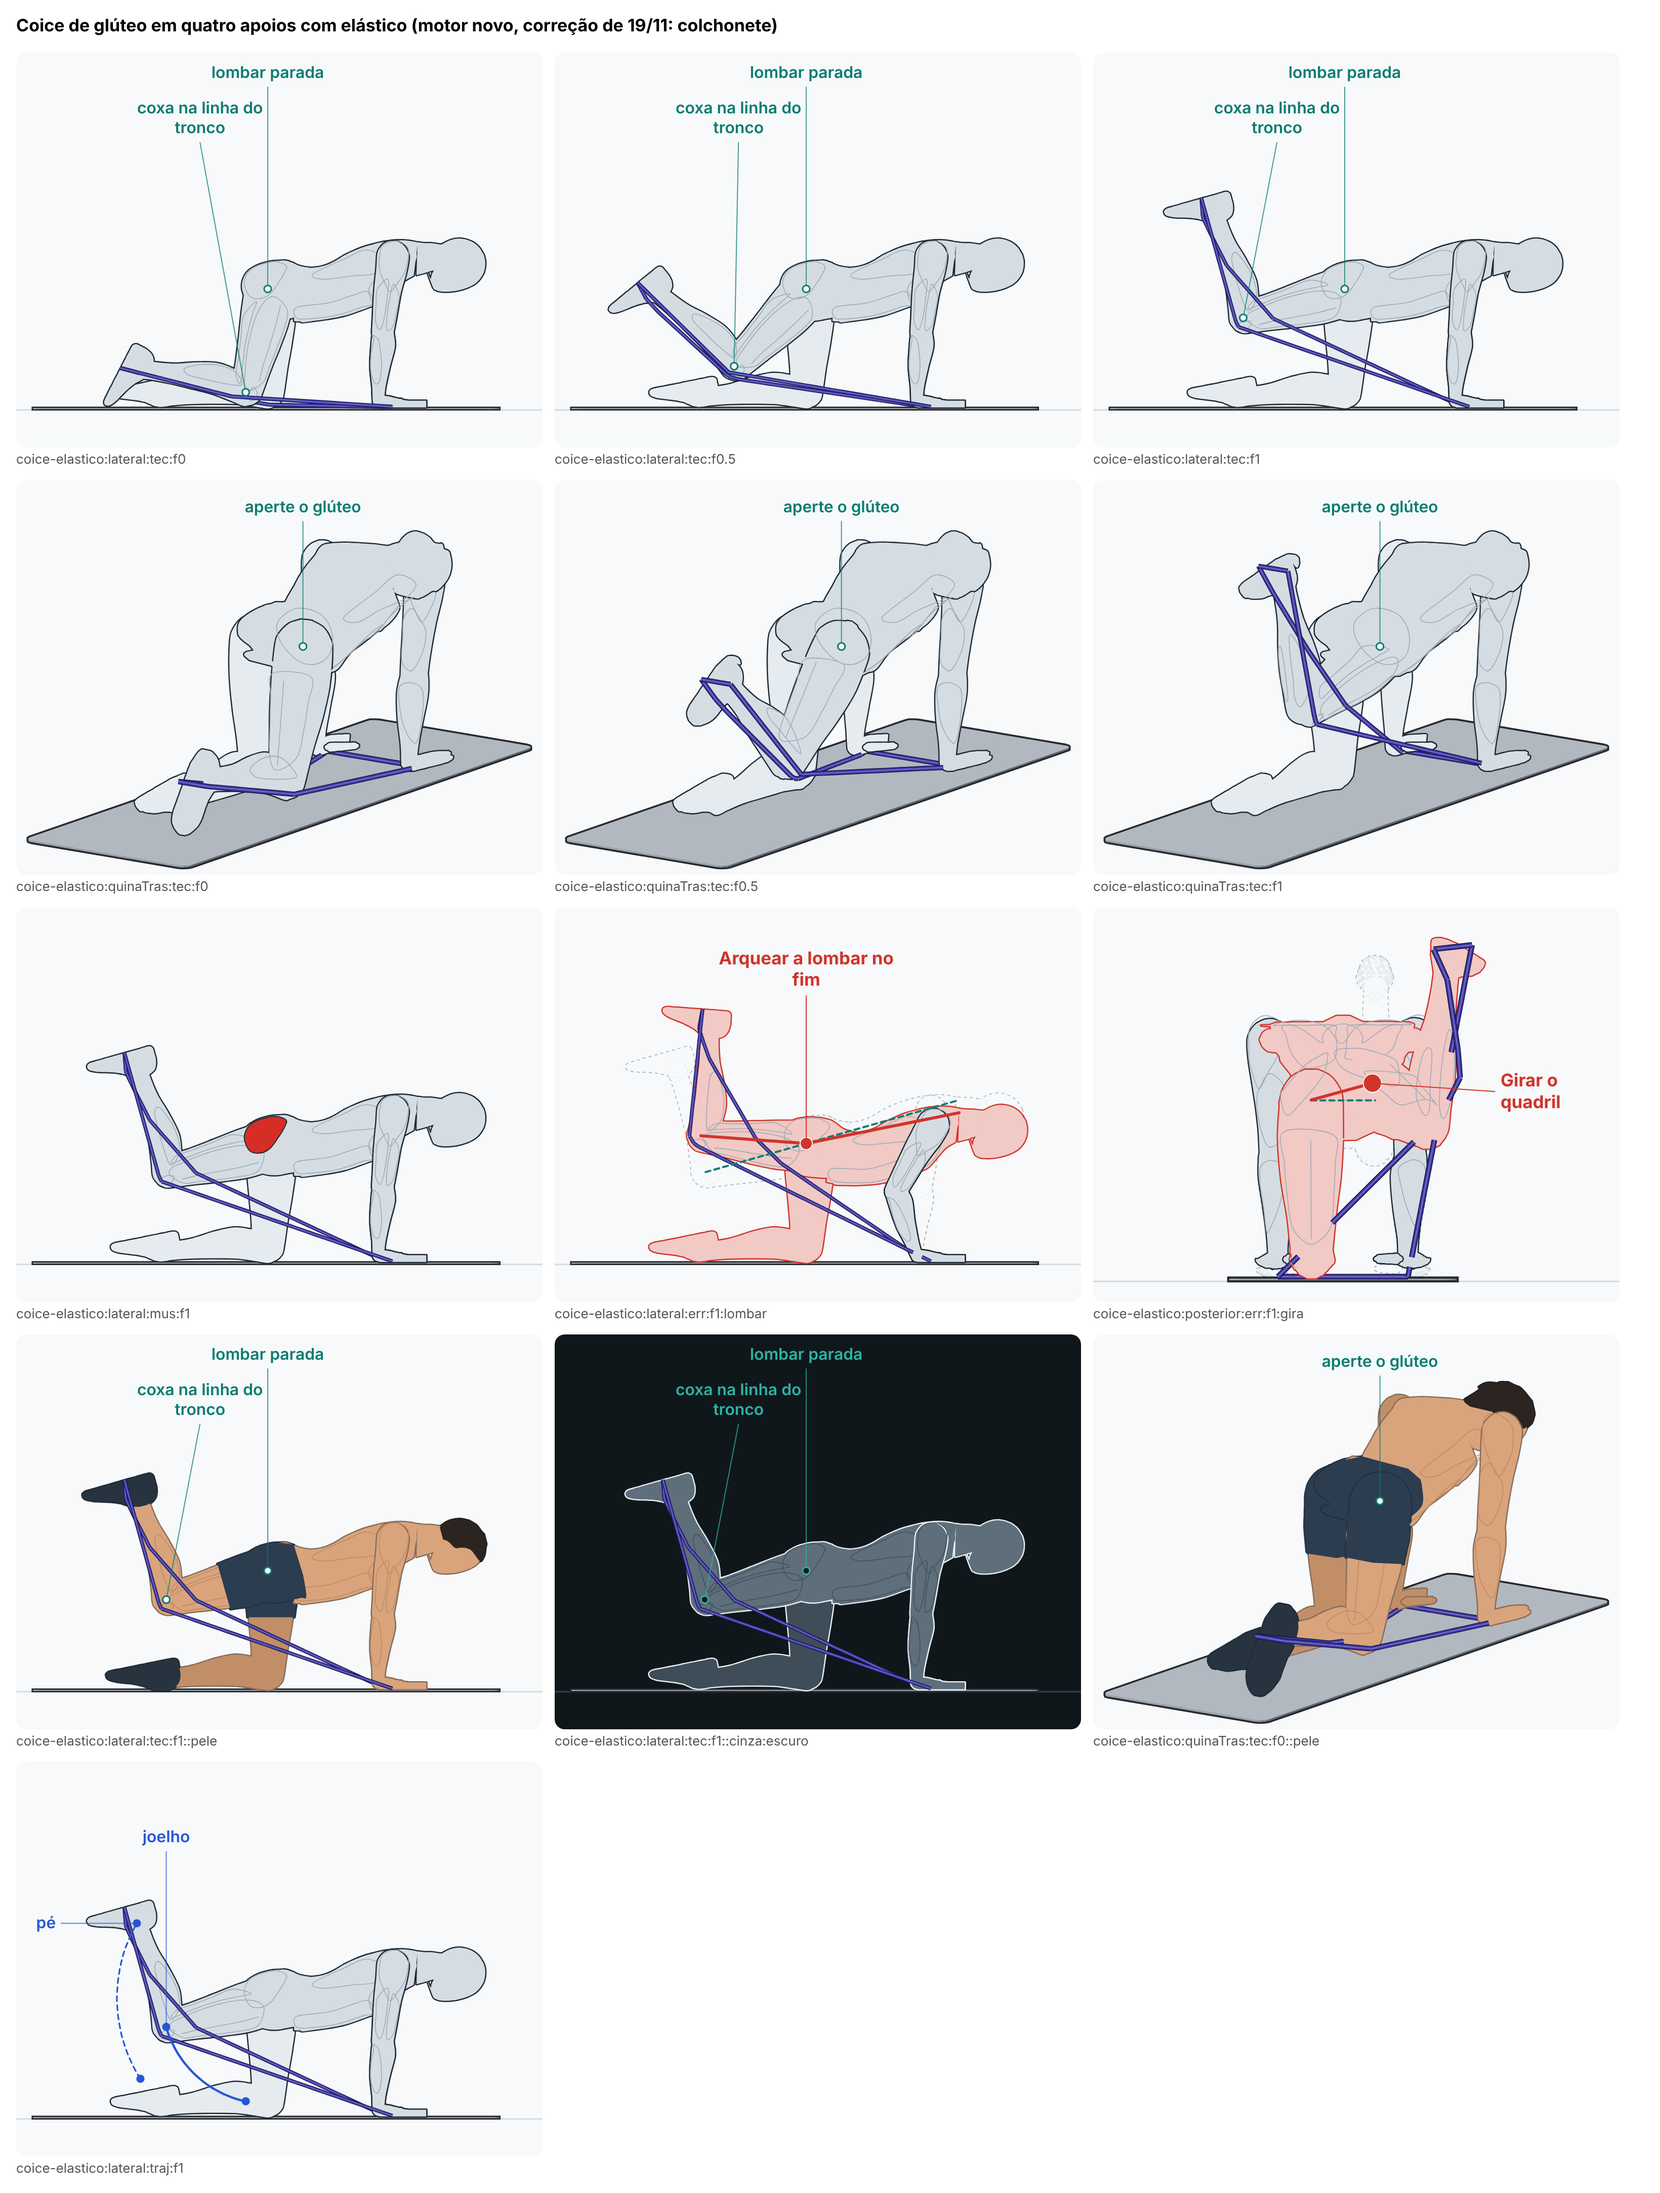
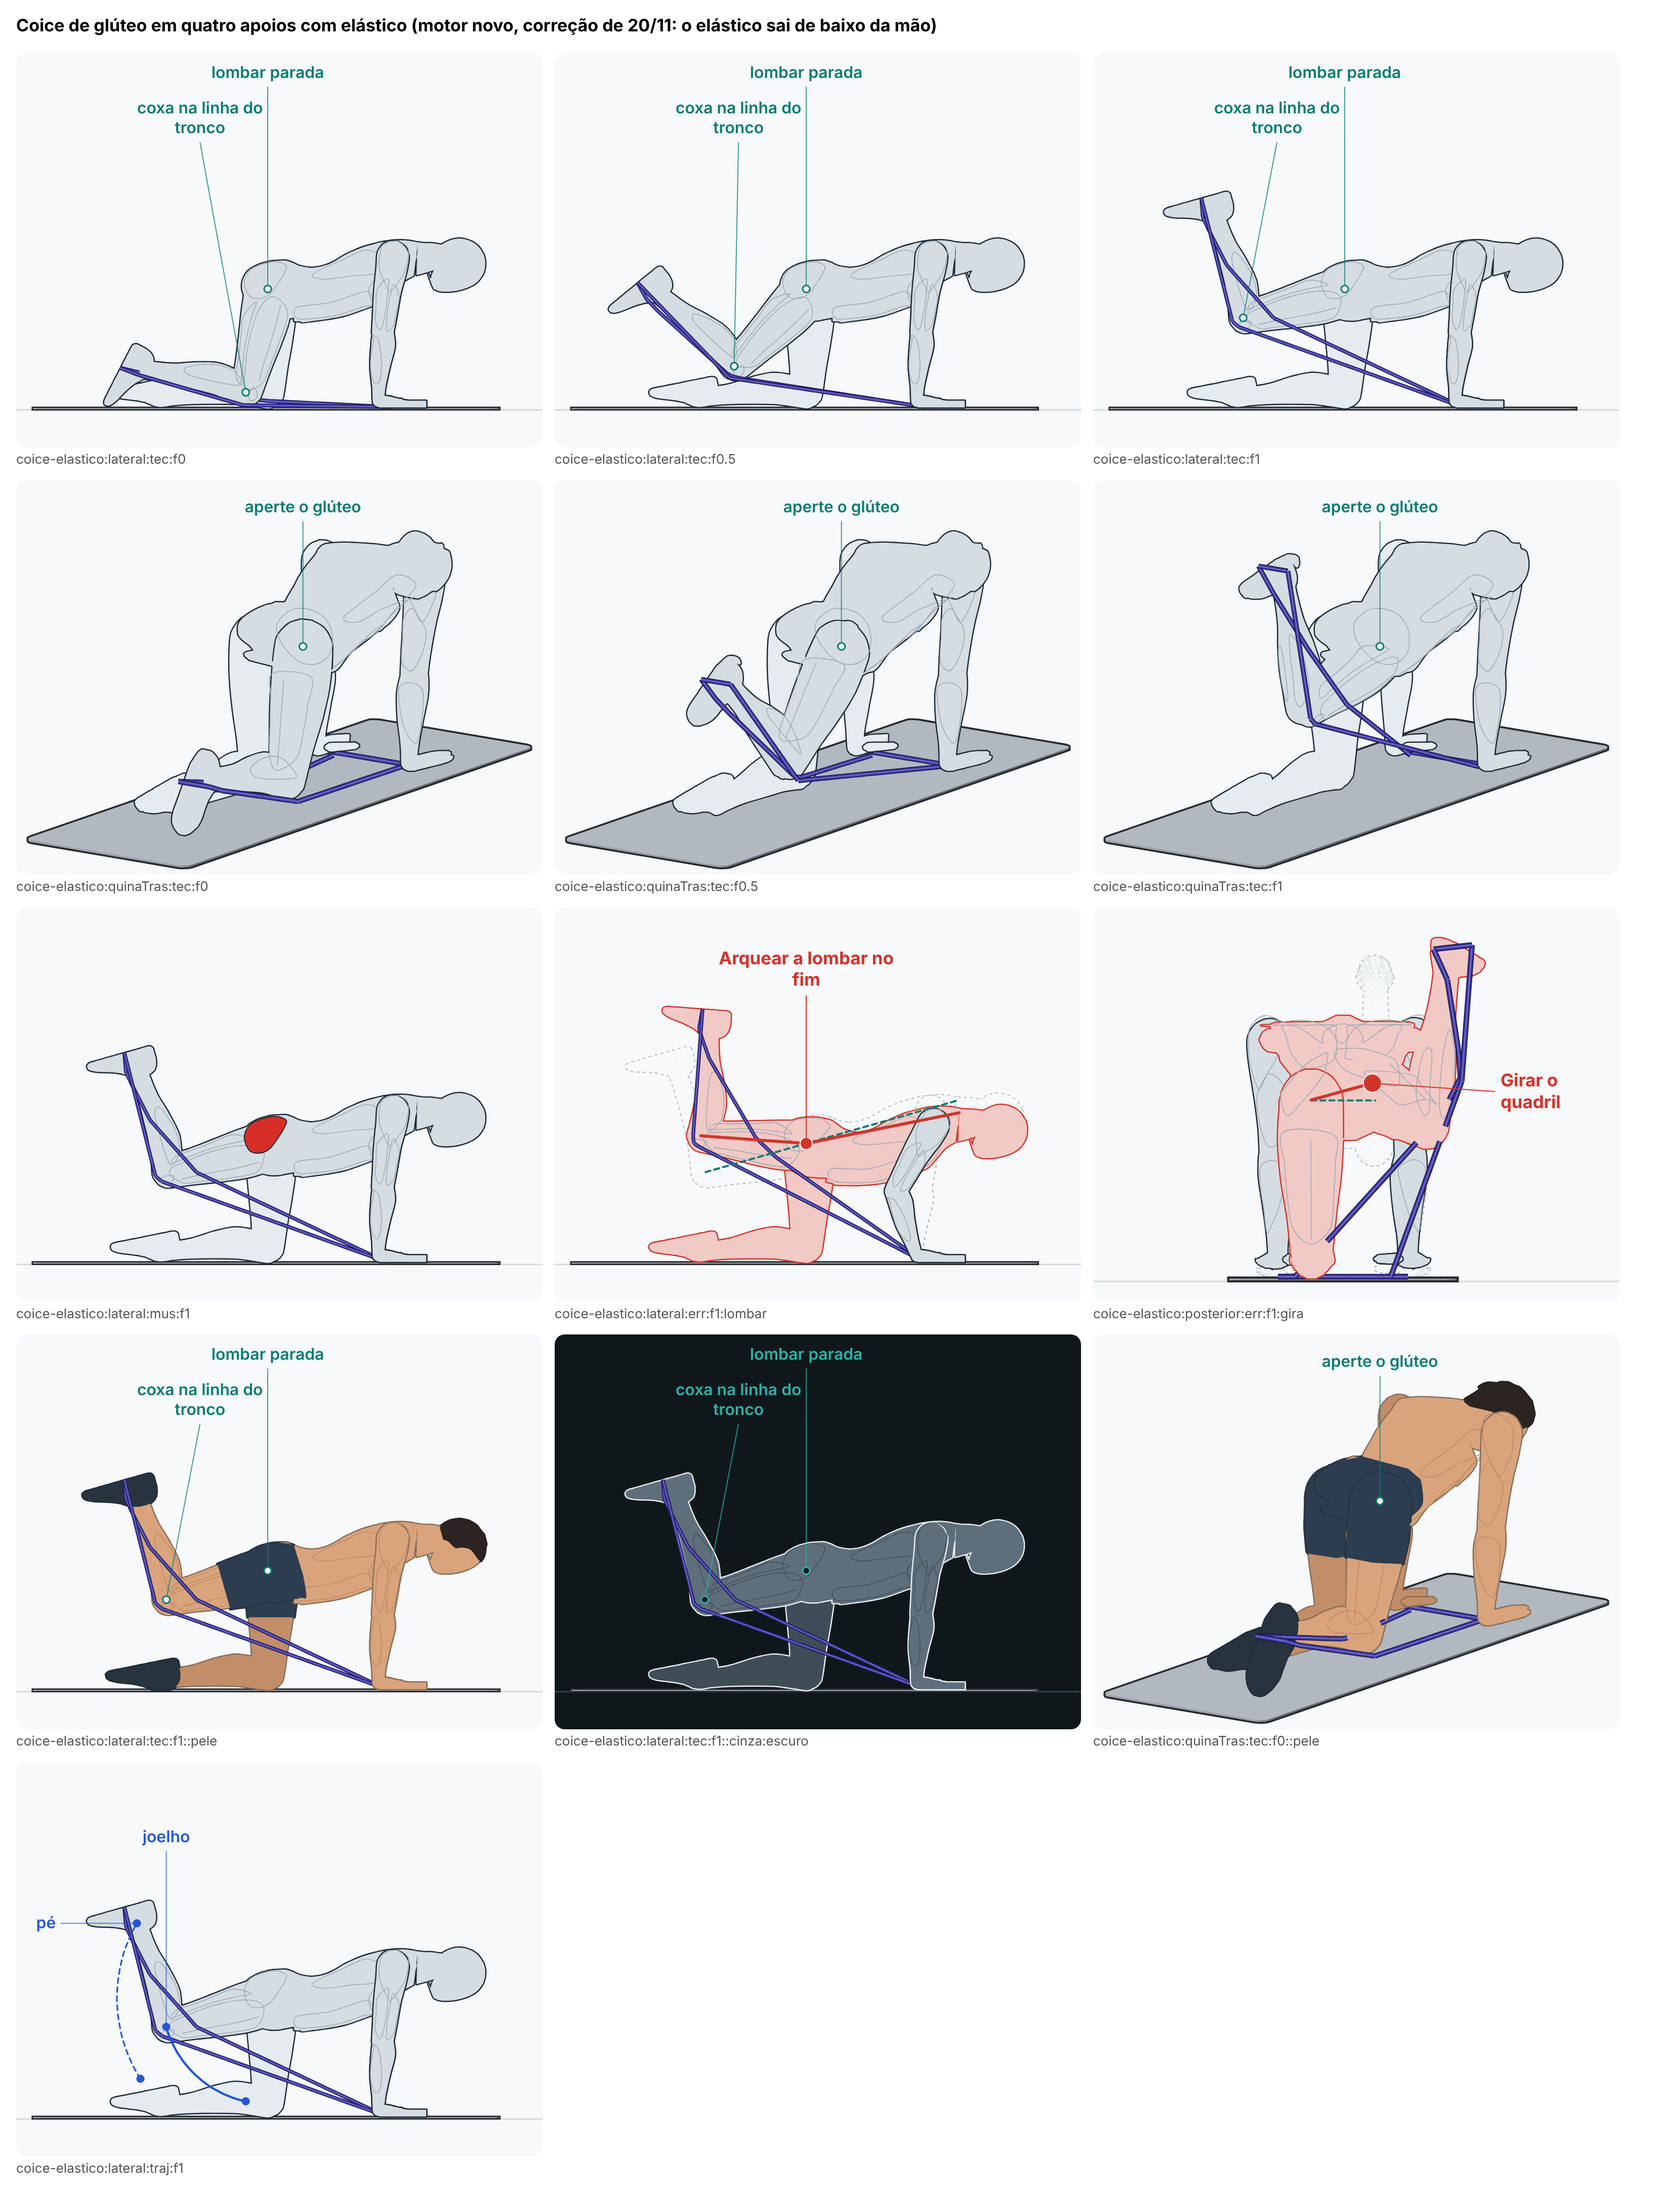
Tira o elástico de dentro do punho no coice com elástico
Cada trecho saía do centro da palma e subia rumo ao pé atravessando o
punho, que fica a 1 ou 2 cm do colchonete: 2,3 cm dentro do antebraço no
erro "Arquear a lombar no fim" (2,1 cm no movimento certo). Agora ele sai
de baixo da mão pela beira de dentro do calcanhar dela, rente ao
colchonete (elastico.saida.dentro 4,5 cm, elastico.saida.atras 3 cm), e
passa ao lado do punho. A pintura cai de 11 achados (61 cm²) para 10
(48 cm²), sem nenhum crescer em área.

A regra cabos-fora-do-corpo-nos-erros não foi ligada: a mão e o antebraço
passam, mas o trecho da mão esquerda ainda atravessa o pé perto da sola
(3,6 cm), como antes; a conferência escrita diz o que foi tentado.

Claude-Session: https://claude.ai/code/session_01YRzts8DBGbsca9onebcMt1

diff --git a/src/engine/novo/exercicios/coice-elastico.ts b/src/engine/novo/exercicios/coice-elastico.ts
@@ -84,10 +84,14 @@ function laco(corpo: Corpo, e: Esq): { pts: V3[]; comp: number; sola: V3 } {
     L0 = e.lado.L;
   const daPernaDeApoio = (p: V3) => Math.min(dist(p, L0.joelho), dist(p, L0.tornozelo), dist(p, L0.quadril) + 6) < Math.min(dist(p, R0.joelho), dist(p, R0.tornozelo), dist(p, R0.quadril) + 6);
   const op = { lado: [0, -1, 0] as V3, partes: PARTES, folga: f('elastico.folga'), fatia: 2.5, livreNasPontas: 3, aceita: (p: V3) => !daPernaDeApoio(p) };
-  const R = fioPorFora(e, palma('R'), bR, op);
+  // correção de 20/11/2026: cada trecho sai de baixo da mão pela beira de dentro do calcanhar dela, rente ao colchonete
+  // (`elastico.saida.*`). Saindo do meio da palma, o trecho subia rumo ao pé por dentro do punho (até 2,3 cm, no erro de
+  // arquear a lombar): o punho fica a 1 ou 2 cm do colchonete, e não há por onde o elástico passar embaixo dele
+  const saida = (k: Lado): V3 => add(palma(k), [-sinal(k) * f('elastico.saida.dentro'), 0, -f('elastico.saida.atras')]);
+  const R = [palma('R'), ...fioPorFora(e, saida('R'), bR, op)];
   // o trecho da mão esquerda cruza por baixo do corpo, entre as coxas: ele contorna também a coxa de apoio, pelo lado
   // de dentro dela (a virilha), em vez de atravessá-la
-  const L = fioPorFora(e, palma('L'), bL, { ...op, lado: norm([-f('elastico.paraDentro'), -1, 0]), aceita: undefined });
+  const L = [palma('L'), ...fioPorFora(e, saida('L'), bL, { ...op, lado: norm([-f('elastico.paraDentro'), -1, 0]), aceita: undefined })];
   // no colchonete, o laço não desce abaixo do tampo
   const noTampo = (p: V3): V3 => [p[0], Math.max(p[1], O.piso + esp / 2), p[2]];
   const pts = [...R, ...L.reverse(), palma('R')].map(noTampo);

diff --git a/docs/revisoes/animacao-nova/lote-A2/coice-elastico.md b/docs/revisoes/animacao-nova/lote-A2/coice-elastico.md
@@ -126,3 +126,28 @@ Os dois pontos que a correção da auditoria deixou: o colchonete de 100 cm (med
 - **No desenho de cor de pele, por trás, no erro de girar o quadril**, o cabelo entra no item do tronco e muda a profundidade dele: em alguns pedaços do elástico que correm por baixo da perna levantada e passam na frente do braço direito, não há profundidade que sirva aos dois desenhos. Vale a do cinza (o dos erros, e o que a regra mede).
 - **Onde o laço dá a volta na sola** e onde ele passa sob a palma, a mesma parte do corpo fica na frente e atrás do mesmo pedaço; a pintura e a regra deixam o pé e a palma de fora.
 - O que já estava na lista e segue igual: as costas sobem 15,8° para os ombros, o rótulo "coxa na linha do tronco" aponta para o joelho embaixo no começo, e o erro de girar, de trás, é o quadro mais carregado.
+
+## Correção de 20/11 (fio ou peso dentro do corpo)
+
+A conferência dos fios (`conferir-pintura.ts`, tolerância de 1 cm, fora a mão e o pé, onde o fio se prende) acusava **o elástico 2,3 cm dentro do antebraço direito**, no erro "Arquear a lombar no fim" (u = 1), e acima de 1 cm em 12 quadros, também no movimento certo (2,1 cm em cima).
+
+**A causa, medida.** Cada trecho saía do centro da palma, no colchonete, e ia em linha reta até o primeiro ponto em que encosta na perna. A mão está espalmada e o punho fica a 1 ou 2 cm do colchonete (o ponto mais baixo do antebraço, junto do punho, a 1,7 cm de altura): a reta subia rumo ao pé atravessando o punho, 5 cm atrás do centro da palma. O caminho do elástico (`fioPorFora`) não via o punho porque ignora os 3 cm junto de cada ponta e pega a pele de 12 pontos por anel.
+
+**A mudança.** Cada trecho sai de baixo da mão pela beira de dentro do calcanhar dela, rente ao colchonete (`elastico.saida.dentro`, 4,5 cm para dentro do centro da palma, onde a mão tem 3,5 cm de meia largura; `elastico.saida.atras`, 3 cm para trás), e dali segue para o pé como antes, passando ao lado do punho. Debaixo da palma, o laço continua de uma mão à outra. O corpo, os erros e o resto do caminho não mudam. O elástico fica 4 cm mais comprido no alto (estica de 1,3 a 1,7 vezes; eram 1,6; o máximo do fabricante é 2,5).
+
+| medido (homem) | antes | depois |
+|---|---|---|
+| o elástico dentro do antebraço direito (conferência dos fios; pior: erro "Arquear a lombar no fim", u = 1) | 2,3 cm | 0 (nada além da tolerância) |
+| o mesmo, no movimento certo, em cima | 2,1 cm | 0 |
+| o elástico dentro da mão direita, regra `cabos-fora-do-corpo-nos-erros` (erro "Girar o quadril") | 1,9 cm | 0,2 cm |
+| quanto o elástico estica (embaixo e no alto) | 1,3 e 1,6 vez | 1,3 e 1,7 vez |
+| pintura: achados e área somada (o pior quadro de cada) | 11, 61 cm² | 10, 48 cm² |
+
+Na pintura, nenhum achado cresceu em área (o maior, a faixa por cima do pé direito, de trás, no erro de girar o quadril: 13,8 → 13,3 cm²; a canela direita, de trás: 9,5 → 9,5 cm²) e o do pé esquerdo, de trás, sumiu; alguns aparecem em mais quadros, menores (o do pé direito, de lado, em 3 quadros com 2,5 cm², contra 1 quadro com 3,3 cm²; o da canela direita, de lado, em 3 quadros com 1,8 cm², contra 1 com 3,3 cm²). Escolhi 4,5 cm para dentro entre 3,5, 4, 4,5 e 5 cm porque foi a única saída em que nenhuma área da pintura cresceu.
+
+**A regra `cabos-fora-do-corpo-nos-erros` não foi ligada.** No estado de antes ela falha (o elástico 2,1 cm no antebraço, no movimento certo; 1,9 cm na mão no erro de girar; e 3,6 cm no pé, no erro de arquear a lombar). No de agora, a mão e o antebraço passam (0,2 cm), mas o pé continua: **o trecho da mão esquerda sai da beira de dentro da sola e vai direto para a frente do tornozelo, atravessando o pé (até 3,6 cm)**. A conferência dos fios deixa o pé de fora (é onde o laço se prende); a regra, não. Tentei contornar o pé: (1) pelo lado de dentro do pé e pela dobra da frente do tornozelo e (2) pelo lado de dentro e por baixo da ponta do pé. As duas passam na regra, mas, de trás (o erro de girar o quadril), o pedaço que dá a volta fica entre o pé e a canela, que o Boneco pinta num item só: ou a faixa sai por cima do pé (a caixa do laço desenhada sobre a sola), ou a regra de pintura do coice (`coice-elastico-colchonete-embaixo`) falha, e a área pintada errada cresce (o pé de trás chegava a 24 cm², a canela a 18 cm²). A regra ligada também não passaria deixando o pé de fora sem mudar a regra comum, o que não fiz. Fica para quem decidir o caminho do laço em volta do pé (ou separar o pé da perna na pintura).
+
+O antes e depois está em `../correcao-das-antigas/coice-elastico-fio-ou-peso.png`; os quadros grandes foram regravados e olhados nas três vistas (de lado, três quartos de trás e de trás no erro), nos dois lados do corpo. A conferência automática dá **1 falha e 4 avisos** (antes: 2 falhas, a de fios e a de pintura, e 4 avisos); a de pintura é a de antes, menor.
+
+**O que ainda não ficou bom.**
+- O trecho da mão esquerda atravessa o pé perto da sola (até 3,6 cm), como antes; ver acima.
